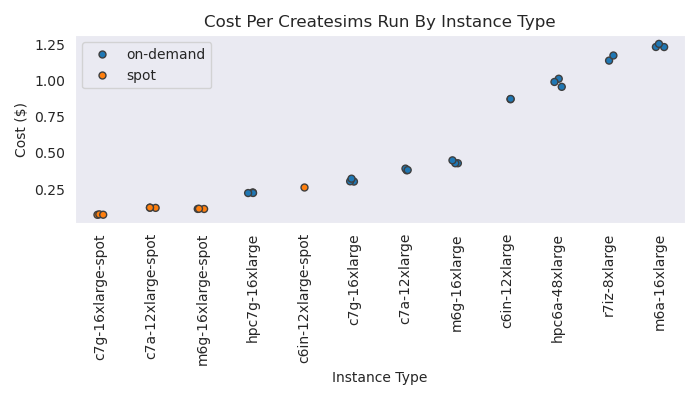
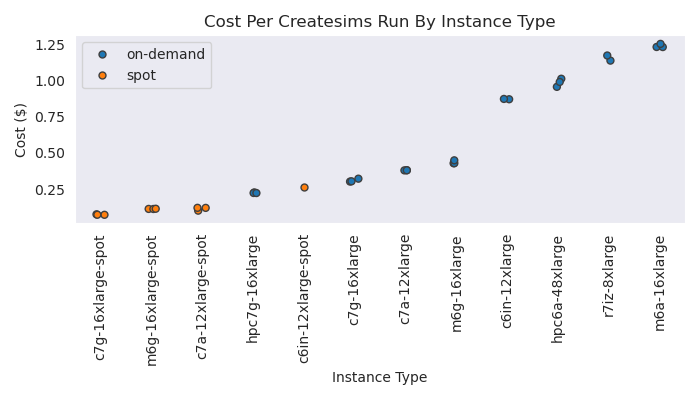
docs: update cpu selection readme and figures

diff --git a/experiments/aws-march-2025/cpu-node-selector/process-times.py b/experiments/aws-march-2025/cpu-node-selector/process-times.py
@@ -221,8 +221,8 @@ def job_timings(samples, outdir):
     # subset["normalized_cost"] = subset["cost"] = subset["cost"].mean()
     order = [
         "c7g-16xlarge-spot",
-        "c7a-12xlarge-spot",
         "m6g-16xlarge-spot",
+        "c7a-12xlarge-spot",
         "hpc7g-16xlarge",
         "c6in-12xlarge-spot",
         "c7g-16xlarge",

diff --git a/experiments/aws-march-2025/cpu-node-selector/README.md b/experiments/aws-march-2025/cpu-node-selector/README.md
@@ -152,42 +152,58 @@ Here we can see that the hpc7g is the greatest bang for the buck, at least for t
 
 ```console
 instance
-c6in-12xlarge     1154.191626
-c7a-12xlarge       560.955119
-c7g-16xlarge        479.53508
-hpc6a-48xlarge    1234.329169
-hpc7g-16xlarge     479.034933
-m6a-16xlarge      1615.040867
-m6g-16xlarge       636.083563
-r7iz-8xlarge      1399.340623
+c6in-12xlarge         1154.191626
+c6in-12xlarge-spot    1159.269386
+c7a-12xlarge           555.239334
+c7a-12xlarge-spot      631.954323
+c7g-16xlarge            479.53508
+c7g-16xlarge-spot      484.950671
+hpc6a-48xlarge        1234.329169
+hpc7g-16xlarge         479.034933
+m6a-16xlarge          1615.040867
+m6g-16xlarge           636.083563
+m6g-16xlarge-spot      622.248273
+r7iz-8xlarge          1399.340623
+Name: duration, dtype: object
 ```
 
 But does the hpc7g take longer?
 
 ```console
-c6in-12xlarge     1154.191626
-c7a-12xlarge       560.955119
-c7g-16xlarge        479.53508
-hpc7g-16xlarge     479.034933
-m6a-16xlarge      1615.040867
-m6g-16xlarge       636.083563
-r7iz-8xlarge      1399.340623
+instance
+c6in-12xlarge         0.872697
+c6in-12xlarge-spot    0.266374
+c7a-12xlarge          0.379876
+c7a-12xlarge-spot     0.113366
+c7g-16xlarge          0.309034
+c7g-16xlarge-spot     0.072945
+hpc6a-48xlarge        0.987463
+hpc7g-16xlarge        0.223949
+m6a-16xlarge          1.240441
+m6g-16xlarge          0.435364
+m6g-16xlarge-spot     0.112679
+r7iz-8xlarge          1.156788
+Name: cost, dtype: object
 ```
 
 For runs with only 2 samples, one of the runtimes went over and the job was cancelled. The c7a-12xlarge
 I used for testing and saved the extra data. The times are really consistent so it seems OK to include and not throw off the distribution, but if we want, we can randomly select 3 (or choose the last 3).
 
 ```console
-Name: duration, dtype: object
-instance
-c6in-12xlarge     0.872697
-c7a-12xlarge      0.383787
-c7g-16xlarge      0.309034
-hpc6a-48xlarge    0.987463
-hpc7g-16xlarge    0.223949
-m6a-16xlarge      1.240441
-m6g-16xlarge      0.435364
-r7iz-8xlarge      1.156788
+                    iteration  event  duration  global  spot  hourly_cost  hours  cost
+instance                                                                              
+c6in-12xlarge               2      2         2       2     2            2      2     2
+c6in-12xlarge-spot          1      1         1       1     1            1      1     1
+c7a-12xlarge                3      3         3       3     3            3      3     3
+c7a-12xlarge-spot           3      3         3       3     3            3      3     3
+c7g-16xlarge                3      3         3       3     3            3      3     3
+c7g-16xlarge-spot           3      3         3       3     3            3      3     3
+hpc6a-48xlarge              3      3         3       3     3            3      3     3
+hpc7g-16xlarge              3      3         3       3     3            3      3     3
+m6a-16xlarge                3      3         3       3     3            3      3     3
+m6g-16xlarge                3      3         3       3     3            3      3     3
+m6g-16xlarge-spot           3      3         3       3     3            3      3     3
+r7iz-8xlarge                2      2         2       2     2            2      2     2
 ```
 ```console
                 iteration  event  duration  global  hourly_cost  hours  cost
